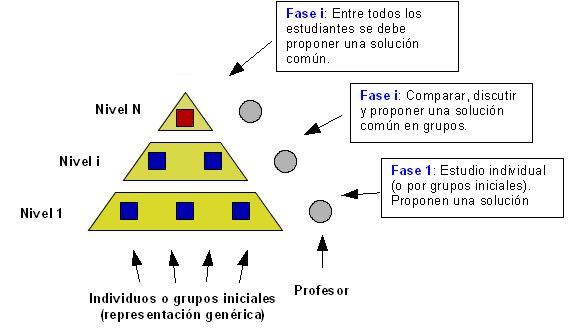
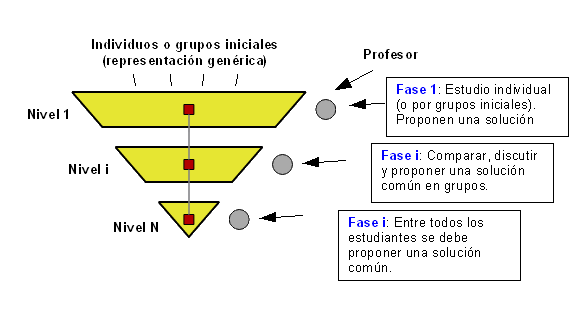
Some bugs have been corrected. The pattern images in the documentation have been changed.

diff --git a/WEBCollage/src/js/main/mainWindow.js b/WEBCollage/src/js/main/mainWindow.js
@@ -69,13 +69,11 @@ dojo.addOnLoad(function() {
         //Hide the webinstancecollage elements which can't be shown when it is contained in a iframe of ldshake
        dijit.byId("toolbar.exportmenu").domNode.style.display = "none";
        dijit.byId("createGluePSDesign").domNode.style.display = "none";
+       dijit.byId("toolbar.save").domNode.style.display = "none";
        dijit.byId("toolbar.exit").domNode.style.display = "none";
        dijit.byId("elegirInstancia").domNode.style.display = "none";
        dijit.byId("actualizarParticipantes").domNode.style.display = "none"; 
-       dijit.byId("LDTitle").domNode.style.display = "none";
-       
-       //Listen to the message event from LdShake to change the title of the design 
-       window.addEventListener('message', setTitle, false);     
+       dijit.byId("LDTitle").domNode.style.display = "none";  
        
        function setTitle(event) {
            if (typeof DesignInstance.data.ldshakeFrameOrigin != 'undefined'){
@@ -99,6 +97,9 @@ dojo.addOnLoad(function() {
                 }
            }
        }
+                  
+       //Listen to the message event from LdShake to change the title of the design 
+       window.addEventListener('message', setTitle, false);   
     }
 });
 

diff --git a/WEBCollage/src/js/editor/summary/TableGenerator.js b/WEBCollage/src/js/editor/summary/TableGenerator.js
@@ -6,14 +6,16 @@
 var TableGenerator = {
 
     init: function(){
-        dojo.connect(dijit.byId("MainWindowTabContainer").tablist, "onButtonClick", function(){
+        /*dojo.connect(dijit.byId("MainWindowTabContainer").tablist, "onButtonClick", function(){
             if (dijit.byId("MainWindowTabContainer").selectedChildWidget.id == "MainWindowSummaryTab") {
                 TableGenerator.generateSummary();
             }
-        });
+        });*/
     },
-
-
+    
+    updateDisplay: function(){
+        TableGenerator.generateSummary();
+    },
 	
     generateSummary: function(){
         var element = dojo.byId("SummaryTabContent");

diff --git a/WEBCollage/src/js/database/ChangeManager.js b/WEBCollage/src/js/database/ChangeManager.js
@@ -215,5 +215,6 @@ var ChangeManager = {
         ParticipantManagement.updateDisplay();
         LearningFlow.updateDisplay();
         Resources.updateDisplay();
+        TableGenerator.updateDisplay();
     }
 };

diff --git a/WEBCollage/src/indexLdShake.php b/WEBCollage/src/indexLdShake.php
@@ -9,8 +9,7 @@
             window.addEventListener('message', getEventMessage, false);
             
             function getEventMessage(event) {
-                var  ldshakeFrameOrigin = ldshake_sectoken;
-                if(event.origin !== ldshakeFrameOrigin){
+                if(event.origin !== frameOrigin){
                     return;
                 }else{
                     var data = event.data;
@@ -37,7 +36,7 @@
             function postMessageIsReady(){
                 var ready = {type: "ldshake_editor_ready", 
                              data: true};
-                parent.postMessage(ready, ldshake_sectoken);
+                parent.postMessage(ready, frameOrigin);
             }
             
         </script>
@@ -59,7 +58,7 @@
                 $ldshake_frame_origin = $instance->ldshakeFrameOrigin;
             }
         }
-        echo "<script type=\"text/javascript\">var ldshake_sectoken='$ldshake_frame_origin';";
+        echo "<script type=\"text/javascript\">var frameOrigin='$ldshake_frame_origin';";
         echo "postMessageIsReady()";
         echo "</script>";
         ?>

diff --git a/WEBCollage/src/ldshake/api/DesignListResource.php b/WEBCollage/src/ldshake/api/DesignListResource.php
@@ -272,7 +272,7 @@ class DesignListResource {
         $document_obj->design->title = $title;
         //If a ldshake_frame_origin has been provided, we add a property so that the javascript code can check this value is correct
         if ($frame_origin!=null){
-            $data_obj->instance->ldshakeFrameOrigin = $frame_origin;
+            $document_obj->instance->ldshakeFrameOrigin = $frame_origin;
         }
         $design_json = json_encode($document_obj->design);
         
